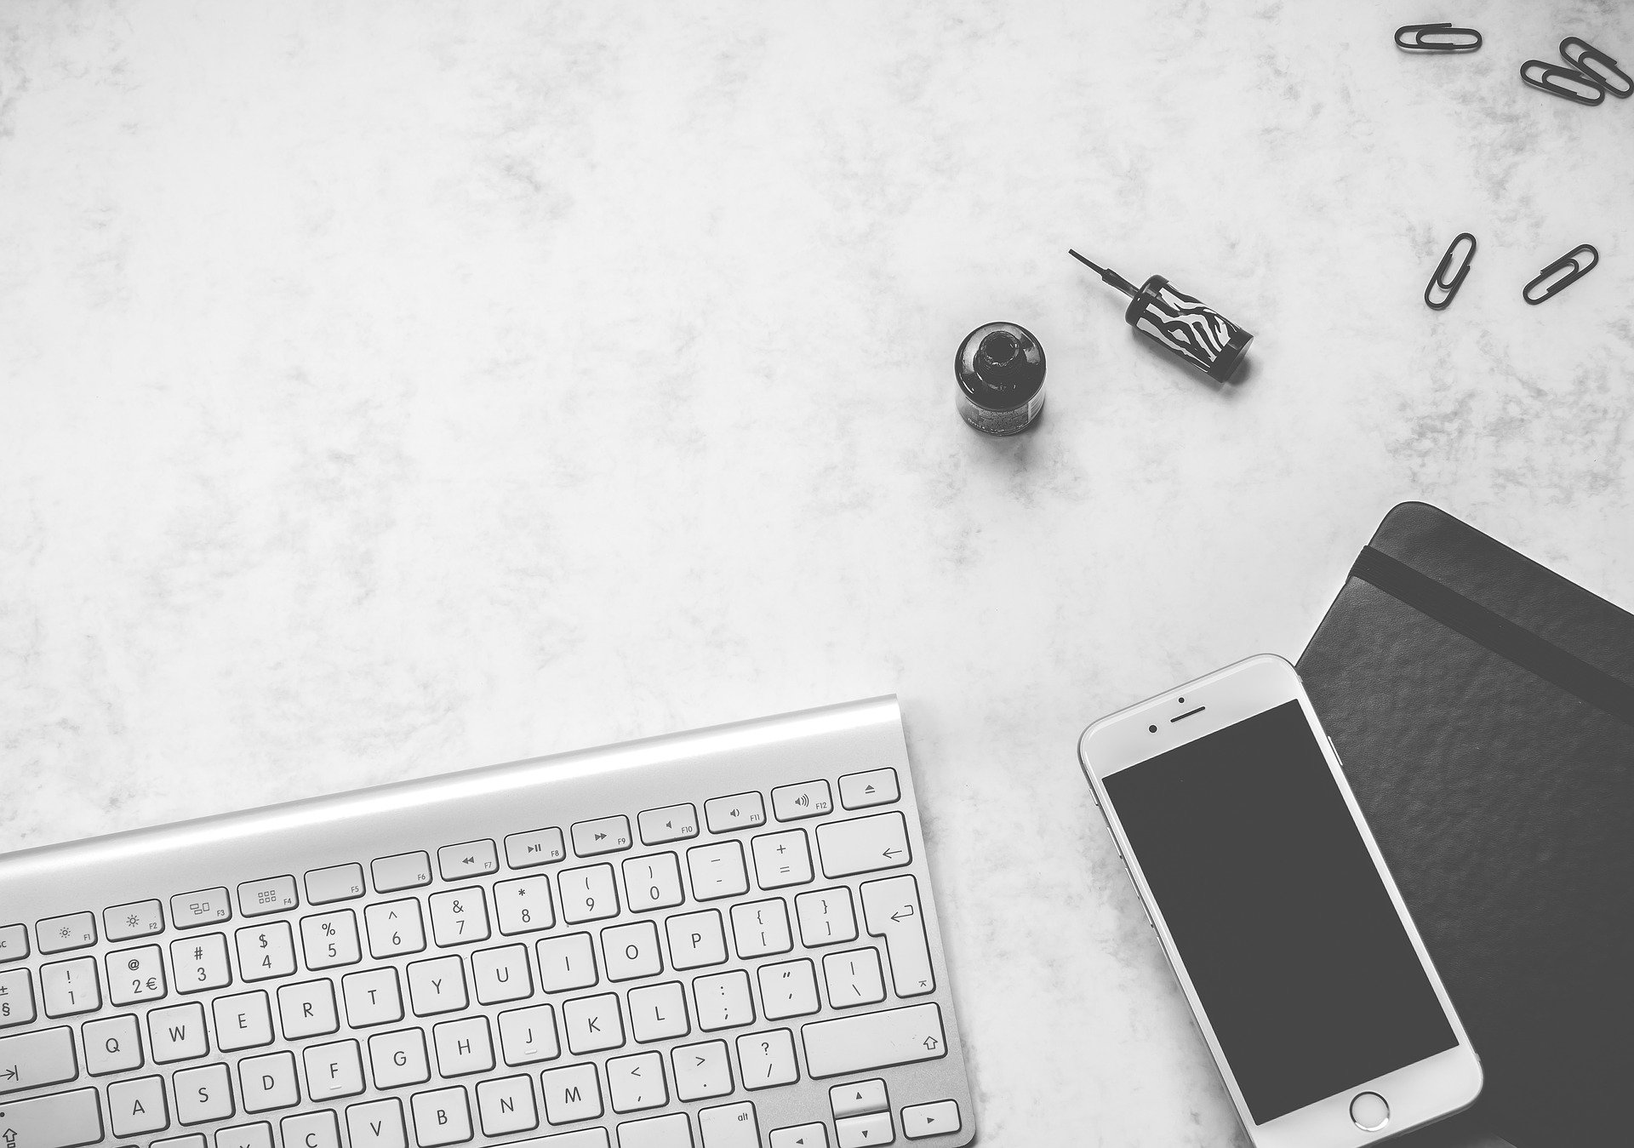
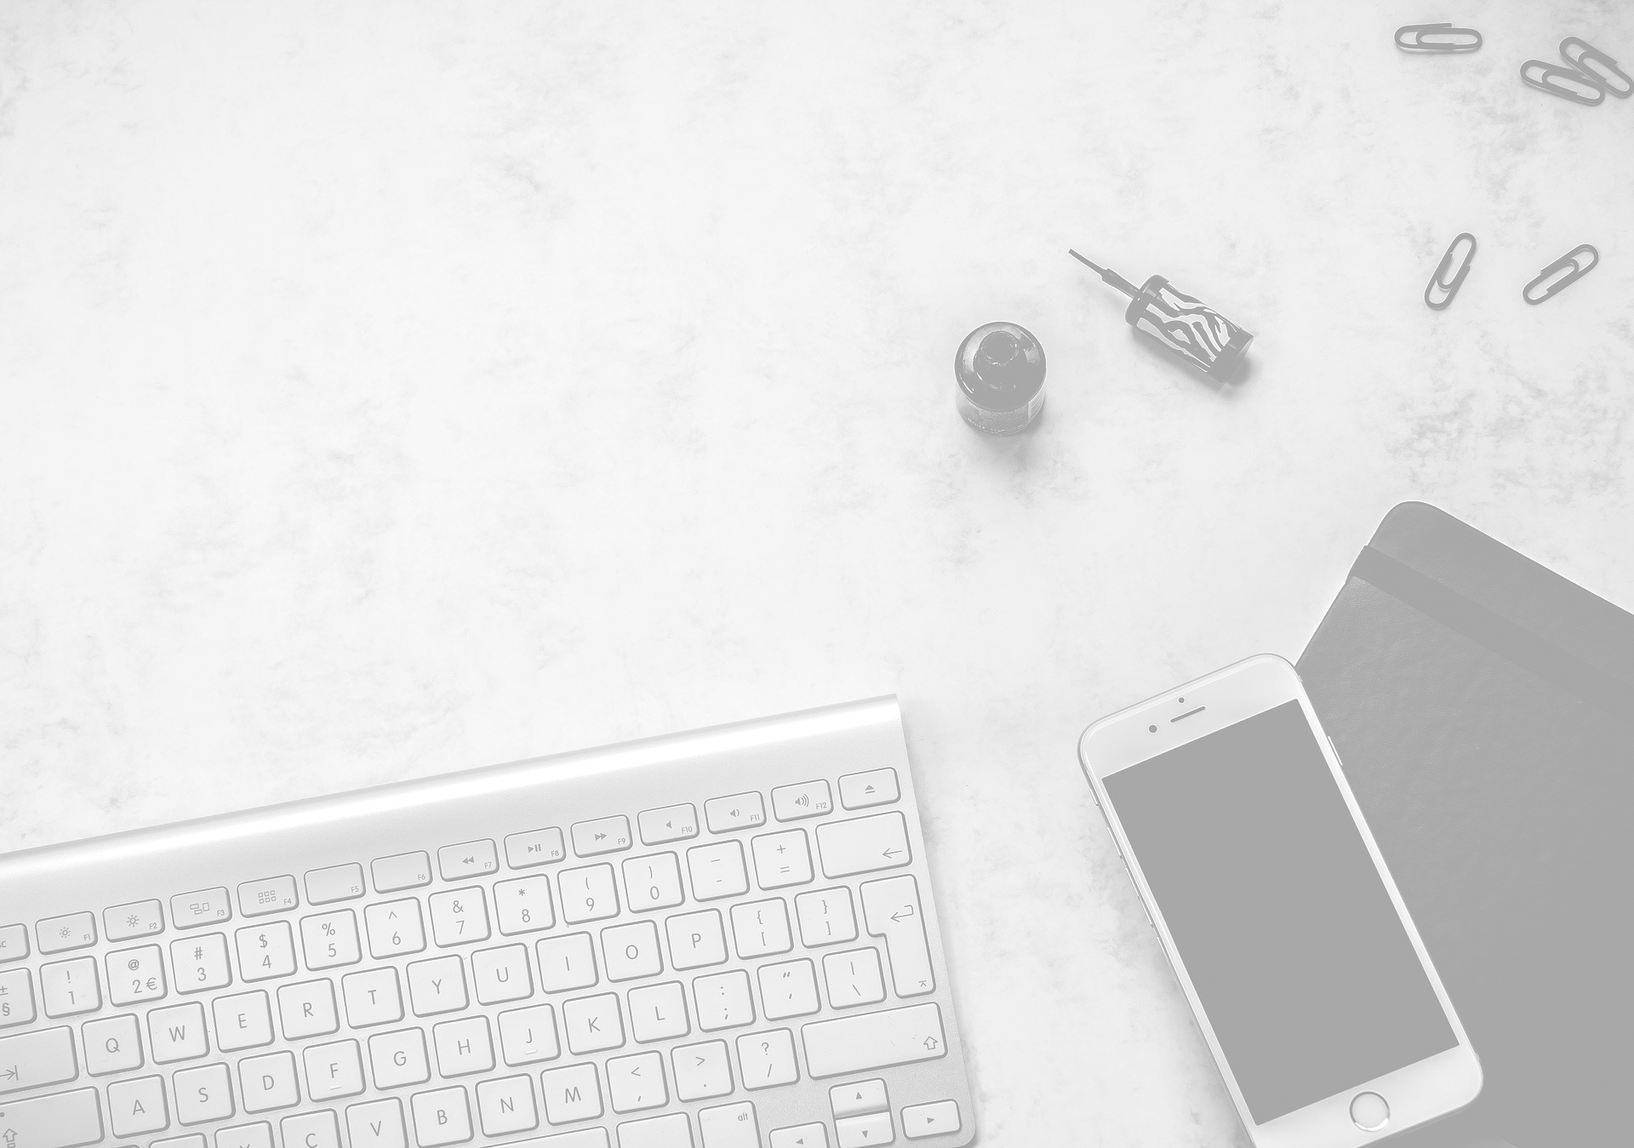
site update fix bg and button new links

diff --git a/css/style.css b/css/style.css
@@ -1,2 +1,2 @@
-@import url("https://fonts.googleapis.com/css?family=Bebas+Neue|Playfair+Display|Roboto:300,400,700&display=swap");*{margin:0;padding:0;-webkit-box-sizing:border-box;box-sizing:border-box;font-family:'Roboto', sans-serif;scroll-behavior:smooth}body{background-image:url("../img/background.jpg");background-attachment:fixed;background-repeat:no-repeat;background-size:cover;position:relative;z-index:-2;padding-top:100px}body::before{content:"";width:100%;height:105%;background-color:rgba(255,255,255,0.5);position:absolute;top:0;z-index:-1}h1{text-align:center;color:#1f1f1f;margin:15vw 0 10vw 0}.navbar{position:fixed;z-index:5;top:0;background-color:transparent;-webkit-transition:background-color .5s;transition:background-color .5s;-webkit-transition:opacity .1s;transition:opacity .1s;width:100vw}.navbar__list{list-style:none;display:-webkit-box;display:-ms-flexbox;display:flex;-webkit-box-pack:justify;-ms-flex-pack:justify;justify-content:space-between;-webkit-box-orient:vertical;-webkit-box-direction:normal;-ms-flex-direction:column;flex-direction:column;display:none}.navbar__option{color:white;padding:2vw 0;font-size:20px;font-weight:300;text-align:center;width:100vw;border-bottom:1px solid black;-webkit-transition:padding .1s;transition:padding .1s}.navbar__burger{margin-left:85vw}.navbar img{width:20px}.navbar__top{-webkit-box-align:center;-ms-flex-align:center;align-items:center;margin:20px 0 10px 0}.navbar a{text-decoration:none}.card{background-color:#f3f3f3;-webkit-box-shadow:0 0 5px black;box-shadow:0 0 5px black;margin:0 auto;width:90vw}.card__photo{padding:5vw;text-align:center}.card__photo img{width:150px}.card__title{font-size:20px;text-align:left;font-weight:bold;padding:3vw;font-weight:300}.card__name{font-weight:700}.card__info{padding-left:10px}.card__social{background-color:#07f}.card__list{display:-webkit-box;display:-ms-flexbox;display:flex;-webkit-box-pack:space-evenly;-ms-flex-pack:space-evenly;justify-content:space-evenly;list-style:none;margin-top:1vw}.card__option{margin:0 auto;padding:5vh 0 4vh 0}.card__option img{width:40px}.card__textinfo-left{display:block;width:100%;float:left;padding-bottom:5px;font-weight:700}.card__textinfo{display:block;font-weight:400;color:#1f1f1f;width:100%;padding-bottom:15px}.card a{color:#07f}.cv{width:80vw;margin:0 auto}.cv__linkblock{width:150px;height:50px;border:1px solid #07f;margin:5vw auto;display:-webkit-box;display:-ms-flexbox;display:flex;-webkit-box-align:center;-ms-flex-align:center;align-items:center;-webkit-box-pack:center;-ms-flex-pack:center;justify-content:center;-webkit-transition:background-color .1s;transition:background-color .1s}.cv__link{color:#07f;text-decoration:none;font-weight:700}.cv__text{font-size:25px;font-weight:200;line-height:125%;text-align:center}.myskills__board{width:90vw;margin:0 auto;background-color:#f3f3f3;-webkit-box-shadow:0 0 5px black;box-shadow:0 0 5px black;text-align:center;position:relative;z-index:1}.myskills__list{list-style:none;margin-left:20px}.myskills__option{padding:15px 0;display:-webkit-box;display:-ms-flexbox;display:flex;-webkit-box-pack:justify;-ms-flex-pack:justify;justify-content:space-between}.myskills__progress{position:relative;background-color:#1f1f1f;width:50%;height:8px;margin-right:20px}.myskills__percentage{position:absolute;width:50%;height:100%;background-color:#07f}.myskills__percentage--1{width:89%}.myskills__percentage--2{width:72%}.myskills__percentage--3{width:62%}.myskills__percentage--4{width:34%}.myskills__value{position:absolute;color:#07f;text-align:center;width:100%;top:95%}.myskills__textleft{float:left;padding-bottom:5px;font-weight:700}.myskills__buttondiv{margin-top:15px}.myskills__button{color:#07f;font-weight:600;text-align:center;text-decoration:none}.myskills__data{margin:0 auto;width:60vw}.myskills__tech{background-color:#f3f3f3;-webkit-box-shadow:0 0 5px black;box-shadow:0 0 5px black;padding:1vw;list-style:none;display:none}.myskills__tech li{padding:10px}.myskills__logo{width:100px}.myskills__red{color:red}.myskills__yellow{color:#c0c000}.myskills__green{color:green}.slider__content{width:95vw;margin:0 auto}.slider img{width:100%}.slider__progress{width:100%;height:5px;background-color:#07f}.slider__currentslide{display:-webkit-box;display:-ms-flexbox;display:flex;-webkit-box-pack:center;-ms-flex-pack:center;justify-content:center;font-size:3vw;cursor:pointer}.slider__current{margin:0 10px}.slider__0{font-size:3.5vw}.portfolio__list{margin:0 3vw;list-style:none;display:-webkit-box;display:-ms-flexbox;display:flex;-ms-flex-wrap:wrap;flex-wrap:wrap;-webkit-box-pack:center;-ms-flex-pack:center;justify-content:center}.portfolio__option{padding:5vw;-ms-flex-preferred-size:200px;flex-basis:200px;display:-webkit-box;display:-ms-flexbox;display:flex;-ms-flex-wrap:wrap;flex-wrap:wrap;-webkit-box-align:center;-ms-flex-align:center;align-items:center;-webkit-box-pack:center;-ms-flex-pack:center;justify-content:center}.portfolio img{height:100px}.portfolio__button{text-align:center;border:1px solid #07f;color:#07f;padding:25px 0;width:100%;font-weight:600;-webkit-transition:background-color .1s;transition:background-color .1s}.portfolio a{-webkit-transition:background-color .1s;transition:background-color .1s;text-decoration:none;color:#07f}.portfolio__text{text-align:center;margin:20px -20px}.contact__list{display:-webkit-box;display:-ms-flexbox;display:flex;-webkit-box-pack:space-evenly;-ms-flex-pack:space-evenly;justify-content:space-evenly;-webkit-box-align:center;-ms-flex-align:center;align-items:center;list-style:none;margin-top:15vw}.contact img{width:50px}.contact__form{width:80vw;background-color:#f3f3f3;padding:1vw 5vw;margin:0 auto;-webkit-box-shadow:0 0 5px black;box-shadow:0 0 5px black}.contact__title{font-size:20px;margin:5vw 0;font-weight:600}.contact__send{background-color:none;border:1px solid #07f !important;width:50% !important;padding:10px 15px;color:#07f;font-weight:600;margin-left:25%;-webkit-transition:background-color .1s;transition:background-color .1s}.contact input,.contact textarea{margin-bottom:3vw;width:100%;border:none;border-bottom:1px solid gray;background-color:transparent;font-size:20px;resize:none}@media (min-width: 500px){h1{margin:8vw 0 3vw 0}.navbar__list{-webkit-box-pack:space-evenly;-ms-flex-pack:space-evenly;justify-content:space-evenly;-webkit-box-orient:horizontal;-webkit-box-direction:normal;-ms-flex-direction:row;flex-direction:row;display:-webkit-box;display:-ms-flexbox;display:flex;background-color:#07f}.navbar__option{width:auto;border-bottom:none}.navbar a{position:relative;color:#000;text-decoration:none}.navbar a:before{content:"";position:absolute;width:100%;height:2px;top:70%;left:0;background-color:white;visibility:hidden;-webkit-transform:scaleX(0);transform:scaleX(0);-webkit-transition:all 0.3s ease-in-out 0s;transition:all 0.3s ease-in-out 0s}.navbar a:hover:before{visibility:visible;-webkit-transform:scaleX(1);transform:scaleX(1)}.navbar__top{display:none}.card{width:50vw;display:-webkit-box;display:-ms-flexbox;display:flex;-ms-flex-wrap:wrap;flex-wrap:wrap}.card__social{-ms-flex-preferred-size:100%;flex-basis:100%}.card__textinfo-left{width:auto}.card__textinfo{-ms-flex-preferred-size:50%;flex-basis:50%;margin-left:120px}.card__photo{-ms-flex-preferred-size:40%;flex-basis:40%;padding:50px 0}.cv__linkblock:hover>a,.cv__linkblock:hover{background-color:#07f;color:white;cursor:pointer}.myskills__board{width:70%;padding:3vw}.myskills__textleft{float:left;padding-bottom:5px;font-weight:700;font-size:20px}.slider__content{width:55%}.portfolio__button:hover>a,.portfolio__button:hover{background-color:#07f;color:white;cursor:pointer}.contact__list{display:-webkit-box;display:-ms-flexbox;display:flex;-webkit-box-pack:space-evenly;-ms-flex-pack:space-evenly;justify-content:space-evenly;-webkit-box-align:center;-ms-flex-align:center;align-items:center;list-style:none;margin-top:1vw}.contact__form{width:500px;padding:.1vw 1vw}.contact__title{margin:3vw 0}.contact__send:hover>a,.contact__send:hover{background-color:#07f;color:white;cursor:pointer}}
+@import url("https://fonts.googleapis.com/css?family=Bebas+Neue|Playfair+Display|Roboto:300,400,700&display=swap");*{margin:0;padding:0;-webkit-box-sizing:border-box;box-sizing:border-box;font-family:'Roboto', sans-serif;scroll-behavior:smooth;scroll-margin-top:100px}body{background-image:url("../img/background.jpg");background-attachment:fixed;background-repeat:no-repeat;background-size:cover;z-index:-2;padding-top:100px}h1{text-align:center;color:#1f1f1f;margin:15vw 0 10vw 0}.navbar{position:fixed;z-index:5;top:0;background-color:transparent;-webkit-transition:background-color .5s;transition:background-color .5s;-webkit-transition:opacity .1s;transition:opacity .1s;width:100vw}.navbar__list{list-style:none;display:-webkit-box;display:-ms-flexbox;display:flex;-webkit-box-pack:justify;-ms-flex-pack:justify;justify-content:space-between;-webkit-box-orient:vertical;-webkit-box-direction:normal;-ms-flex-direction:column;flex-direction:column;display:none}.navbar__option{color:white;padding:2vw 0;font-size:20px;font-weight:300;text-align:center;width:100vw;border-bottom:1px solid black;-webkit-transition:padding .1s;transition:padding .1s}.navbar__burger{margin-left:85vw}.navbar img{width:20px}.navbar__top{-webkit-box-align:center;-ms-flex-align:center;align-items:center;margin:20px 0 10px 0}.navbar a{text-decoration:none}.card{background-color:#f3f3f3;-webkit-box-shadow:0 0 5px black;box-shadow:0 0 5px black;margin:0 auto;width:90vw}.card__photo{padding:5vw;text-align:center}.card__photo img{width:150px}.card__title{font-size:20px;text-align:left;font-weight:bold;padding:3vw;font-weight:300}.card__name{font-weight:700}.card__info{padding-left:10px}.card__social{background-color:#07f}.card__list{display:-webkit-box;display:-ms-flexbox;display:flex;-webkit-box-pack:space-evenly;-ms-flex-pack:space-evenly;justify-content:space-evenly;list-style:none;margin-top:1vw}.card__option{margin:0 auto;padding:5vh 0 4vh 0}.card__option img{width:40px}.card__textinfo-left{display:block;width:100%;float:left;padding-bottom:5px;font-weight:700}.card__textinfo{display:block;font-weight:400;color:#1f1f1f;width:100%;padding-bottom:15px}.card a{color:#07f}.cv{width:80vw;margin:0 auto}.cv__linkblock{width:150px;height:50px;border:1px solid #07f;margin:5vw auto;display:-webkit-box;display:-ms-flexbox;display:flex;-webkit-box-align:center;-ms-flex-align:center;align-items:center;-webkit-box-pack:center;-ms-flex-pack:center;justify-content:center;-webkit-transition:background-color .1s;transition:background-color .1s}.cv__link{display:-webkit-box;display:-ms-flexbox;display:flex;-webkit-box-pack:center;-ms-flex-pack:center;justify-content:center;-webkit-box-align:center;-ms-flex-align:center;align-items:center;color:#07f;text-decoration:none;font-weight:700;width:100%;height:100%}.cv__text{font-size:25px;font-weight:200;line-height:125%;text-align:center}.myskills__board{width:90vw;margin:0 auto;background-color:#f3f3f3;-webkit-box-shadow:0 0 5px black;box-shadow:0 0 5px black;text-align:center;position:relative;z-index:1}.myskills__list{list-style:none;margin-left:20px}.myskills__option{padding:15px 0;display:-webkit-box;display:-ms-flexbox;display:flex;-webkit-box-pack:justify;-ms-flex-pack:justify;justify-content:space-between}.myskills__progress{position:relative;background-color:#1f1f1f;width:50%;height:8px;margin-right:20px}.myskills__percentage{position:absolute;width:50%;height:100%;background-color:#07f}.myskills__percentage--1{width:89%}.myskills__percentage--2{width:72%}.myskills__percentage--3{width:62%}.myskills__percentage--4{width:34%}.myskills__value{position:absolute;color:#07f;text-align:center;width:100%;top:95%}.myskills__textleft{float:left;padding-bottom:5px;font-weight:700}.myskills__buttondiv{margin-top:15px}.myskills__button{color:#07f;font-weight:600;text-align:center;text-decoration:none}.myskills__data{margin:0 auto;width:60vw}.myskills__tech{background-color:#f3f3f3;-webkit-box-shadow:0 0 5px black;box-shadow:0 0 5px black;padding:1vw;list-style:none;display:none}.myskills__tech li{padding:10px}.myskills__logo{width:100px}.myskills__red{color:red}.myskills__yellow{color:#c0c000}.myskills__green{color:green}.slider__content{width:95vw;margin:0 auto}.slider img{width:100%}.slider__progress{width:100%;height:5px;background-color:#07f}.slider__currentslide{display:-webkit-box;display:-ms-flexbox;display:flex;-webkit-box-pack:center;-ms-flex-pack:center;justify-content:center;font-size:3vw;cursor:pointer}.slider__current{margin:0 10px}.slider__0{font-size:3.5vw}.portfolio__list{margin:0 3vw;list-style:none;display:-webkit-box;display:-ms-flexbox;display:flex;-ms-flex-wrap:wrap;flex-wrap:wrap;-webkit-box-pack:center;-ms-flex-pack:center;justify-content:center}.portfolio__option{padding:5vw;-ms-flex-preferred-size:200px;flex-basis:200px;display:-webkit-box;display:-ms-flexbox;display:flex;-ms-flex-wrap:wrap;flex-wrap:wrap;-webkit-box-align:center;-ms-flex-align:center;align-items:center;-webkit-box-pack:center;-ms-flex-pack:center;justify-content:center}.portfolio img{height:100px}.portfolio__button{text-align:center;border:1px solid #07f;padding:25px 0;width:100%;font-weight:600;-webkit-transition:background-color .1s;transition:background-color .1s}.portfolio a{-webkit-transition:background-color .1s;transition:background-color .1s;text-decoration:none;color:#07f;width:100%;height:100%}.portfolio__text{text-align:center;margin:20px -20px}.contact__list{display:-webkit-box;display:-ms-flexbox;display:flex;-webkit-box-pack:space-evenly;-ms-flex-pack:space-evenly;justify-content:space-evenly;-webkit-box-align:center;-ms-flex-align:center;align-items:center;list-style:none;margin-top:15vw}.contact img{width:50px}.contact__form{width:80vw;background-color:#f3f3f3;padding:1vw 5vw;margin:0 auto;-webkit-box-shadow:0 0 5px black;box-shadow:0 0 5px black}.contact__title{font-size:20px;margin:5vw 0;font-weight:600}.contact__send{background-color:none;border:1px solid #07f !important;width:50% !important;padding:10px 15px;color:#07f;font-weight:600;margin-left:25%;-webkit-transition:background-color .1s;transition:background-color .1s}.contact input,.contact textarea{margin-bottom:3vw;width:100%;border:none;border-bottom:1px solid gray;background-color:transparent;font-size:20px;resize:none}@media (min-width: 500px){h1{margin:8vw 0 3vw 0}.navbar__list{-webkit-box-pack:space-evenly;-ms-flex-pack:space-evenly;justify-content:space-evenly;-webkit-box-orient:horizontal;-webkit-box-direction:normal;-ms-flex-direction:row;flex-direction:row;display:-webkit-box;display:-ms-flexbox;display:flex;background-color:#07f}.navbar__option{width:auto;border-bottom:none}.navbar a{position:relative;color:#000;text-decoration:none}.navbar a:before{content:"";position:absolute;width:100%;height:2px;top:70%;left:0;background-color:white;visibility:hidden;-webkit-transform:scaleX(0);transform:scaleX(0);-webkit-transition:all 0.3s ease-in-out 0s;transition:all 0.3s ease-in-out 0s}.navbar a:hover:before{visibility:visible;-webkit-transform:scaleX(1);transform:scaleX(1)}.navbar__top{display:none}.card{width:50vw;display:-webkit-box;display:-ms-flexbox;display:flex;-ms-flex-wrap:wrap;flex-wrap:wrap}.card__social{-ms-flex-preferred-size:100%;flex-basis:100%}.card__textinfo-left{width:auto}.card__textinfo{-ms-flex-preferred-size:50%;flex-basis:50%;margin-left:120px}.card__photo{-ms-flex-preferred-size:40%;flex-basis:40%;padding:50px 0}.cv__linkblock:hover>a,.cv__linkblock:hover{background-color:#07f;color:white;cursor:pointer}.myskills__board{width:70%;padding:3vw}.myskills__textleft{float:left;padding-bottom:5px;font-weight:700;font-size:20px}.slider__content{width:55%}.portfolio__button:hover>a,.portfolio__button:hover{background-color:#07f;color:white;cursor:pointer}.contact__list{display:-webkit-box;display:-ms-flexbox;display:flex;-webkit-box-pack:space-evenly;-ms-flex-pack:space-evenly;justify-content:space-evenly;-webkit-box-align:center;-ms-flex-align:center;align-items:center;list-style:none;margin-top:1vw}.contact__form{width:500px;padding:.1vw 1vw}.contact__title{margin:3vw 0}.contact__send:hover>a,.contact__send:hover{background-color:#07f;color:white;cursor:pointer}}
 /*# sourceMappingURL=style.css.map */

diff --git a/index.html b/index.html
@@ -92,7 +92,7 @@
     </section>
     <section class="cv">
         <div class="cv__linkblock">
-            <a href="files/cv.pdf" class="cv__link" download>Pobierz CV</a>
+            <a href="files/cv.pdf" class="cv__link" download id="download">Pobierz CV</a>
         </div>
         <div class="cv__text">
             Cześć! Nazywam się Piotr Jaworski i jestem początkującym front end developerem. Szukam pracy w której będę
@@ -142,9 +142,9 @@
         <div class="myskills__data">
             <ul class="myskills__tech">
                 <li>
-                    <span class="myskills__green">&#9679;-Zakończone</span>
-                    <span class="myskills__yellow">&#9679;-W trakcie</span>
-                    <span class="myskills__red">&#9679;-Planowane</span>
+                    <span class="myskills__green">&#9679;-Zakończone</span><br>
+                    <span class="myskills__yellow">&#9679;-W trakcie</span><br>
+                    <span class="myskills__red">&#9679;-Planowane</span><br>
                 </li>
                 <img class="myskills__logo" src="https://www.vectorlogo.zone/logos/udemy/udemy-ar21.svg" alt="">
                 <li>
@@ -270,14 +270,16 @@
                 <div class="portfolio__text">
                     Zaplanuj swój dzień łatwo i przyjemnie z PLAnNER!
                 </div>
-                <div class="portfolio__button"><a href="" target="_blank">Sprawdź</a></div>
+                <div class="portfolio__button"><a href="https://github.com/firenizija/planner"
+                        target="_blank">Sprawdź</a></div>
             </li>
             <li class="portfolio__option">
                 <img src="img/RTS.svg" alt="">
                 <div class="portfolio__text">
                     Losowanie drużyn do gry Minecraft.
                 </div>
-                <div class="portfolio__button"><a href="" target="_blank">Sprawdź</a></div>
+                <div class="portfolio__button"><a href="https://firenizija.github.io/teams/" target="_blank">Sprawdź</a>
+                </div>
             </li>
         </ul>
     </section>
@@ -287,11 +289,11 @@
             <div class="contact__title">Wyślij mi wiadomość</div>
             <form method="POST" action="send-mail.php">
                 Twój mail <br>
-                <input type="email"> <br>
+                <input name="myMail" type="email" placeholder="user@example.com"> <br>
                 Temat <br>
-                <input type="text"> <br>
+                <input name="subject" type="text" placeholder="Dokąd tupta nocą jeż?"> <br>
                 Treść <br>
-                <textarea name="" id="" cols="30" rows="10"></textarea><br>
+                <textarea name="mailText" id="" cols="30" rows="10" placeholder="O to jest pytanie"></textarea><br>
                 <input type="submit" value="Wyślij" class="contact__send">
             </form>
         </div>

diff --git a/scss/style.scss b/scss/style.scss
@@ -6,25 +6,25 @@
     box-sizing: border-box;
     font-family: 'Roboto', sans-serif;
     scroll-behavior: smooth;
+    scroll-margin-top: 100px;
 }
 body{
     background-image: url('../img/background.jpg');
     background-attachment: fixed;
     background-repeat: no-repeat;
     background-size: cover;
-    position: relative;
     z-index: -2;
     padding-top: 100px;
 }
-body::before{
-    content: "";
-    width: 100%;
-    height: 105%;
-    background-color: rgba(255, 255, 255, 0.5);
-    position: absolute;
-    top:0;
-    z-index: -1;
-}
+// body::before{
+//     content: "";
+//     width: 100%;
+//     height: 105%;
+//     background-color: rgba(255, 255, 255, 0.5);
+//     position: absolute;
+//     top:0;
+//     z-index: -1;
+// }
 h1{
     text-align: center;
     color:$lightGray;
@@ -148,9 +148,14 @@ h1{
         transition: background-color .1s;
     }
     &__link{
+        display: flex;
+        justify-content: center;
+        align-items: center;
         color:$messBlue;
         text-decoration: none;
         font-weight: 700;
+        width: 100%;
+        height: 100%;
     }
     &__text{
         font-size: 25px;
@@ -304,7 +309,6 @@ h1{
     &__button{
         text-align: center;
         border: 1px solid $messBlue;
-        color: $messBlue;
         padding: 25px 0;
         width: 100%;
         font-weight: 600;
@@ -314,6 +318,8 @@ h1{
         transition: background-color .1s;
         text-decoration: none;
         color:$messBlue;
+        width: 100%;
+        height: 100%;
     }
     &__text{
         text-align: center;

diff --git a/script/script.js b/script/script.js
@@ -56,11 +56,11 @@ let j = 0;
 setInterval(() => {
     $(".slider__progress").css("width", j + "%");
     if (j >= 100) {
-        j = 0;
         currentSlide++;
+        $(".slider__img").attr("src", "img/" + slides[currentSlide]);
         $(".slider__current").css("font-size", "3vw");
         $(".slider__" + currentSlide).css("font-size", "3.5vw");
-        $(".slider__img").attr("src", "img/" + slides[currentSlide]);
+        j = 0;
         if (currentSlide >= slides.length - 1) currentSlide = -1;
     }
     else {
@@ -68,19 +68,23 @@ setInterval(() => {
     }
 }, 50);
 $(".slider__0").mouseover(() => {
-    $(".slider__img").attr("src", "img/" + slides[0]);
+    currentSlide = 0;
+    $(".slider__img").attr("src", "img/" + slides[currentSlide]);
     $(".slider__current").css("font-size", "3vw");
     $(".slider__" + 0).css("font-size", "3.5vw");
 });
 $(".slider__1").mouseover(() => {
-    $(".slider__img").attr("src", "img/" + slides[1]);
+    currentSlide = 1;
+    $(".slider__img").attr("src", "img/" + slides[currentSlide]);
     $(".slider__current").css("font-size", "3vw");
     $(".slider__" + 1).css("font-size", "3.5vw");
 });
 $(".slider__2").mouseover(() => {
-    $(".slider__img").attr("src", "img/" + slides[2]);
+    currentSlide = 2;
+    $(".slider__img").attr("src", "img/" + slides[currentSlide]);
     $(".slider__current").css("font-size", "3vw");
     $(".slider__" + 2).css("font-size", "3.5vw");
+    currentSlide = 0;
 });
 //skills
 $(".myskills__button").click(() => {

diff --git a/send-mail.php b/send-mail.php
@@ -1,0 +1,9 @@
+<?php
+$msg = $_POST['mailText'];
+$msg = wordwrap($msg, 70);
+$sub = $_POST['subject'];
+$mail = $_POST['myMail'];
+mail("firenizija@gmail.com",$sub, $msg."<br>".$mail);
+echo "Email pomyślnie wysłany! Trwa przekierowanie spowrotem do strony";
+header("Location: index.html")
+?>
